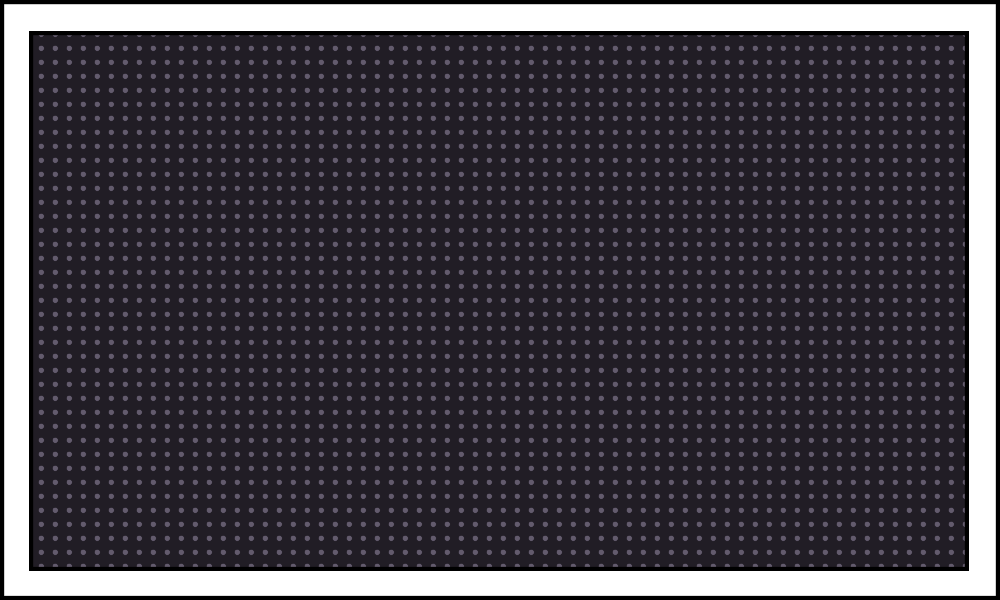
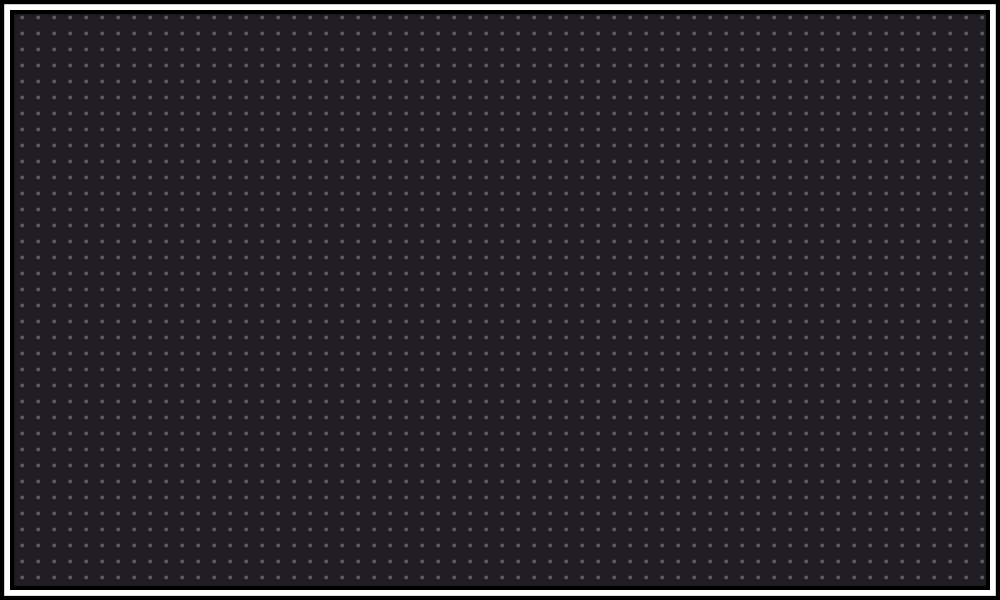
stamina ui things

Changed region(s): [[0.0, 0.0, 0.992, 0.99]]

diff --git a/game/client/css/base.css b/game/client/css/base.css
@@ -181,8 +181,8 @@ body {
 #toggle-sound {
     position: absolute;
     z-index: 51;
-    right: 0;
-    top: 2px;
+    right: 10px;
+    top: 16px;
     width: 30px;
     height: 30px;
     cursor: pointer;
@@ -312,7 +312,7 @@ body {
     height: 100%;
     padding: 40px 50px;
     background-color: #3a68ff;
-    background: url('/client/img/backgroundSM.png');
+    background: url('/client/img/background2.png');
 
     /*font-family: 'Sansita One';*/
     font-family: 'Bangers', cursive;
@@ -527,17 +527,68 @@ body {
 /* PLAY VIEW INFO PANE */
 
 #play-view {
-    padding: 50px 60px;
+    position: relative;
+    padding: 40px 60px 10px 60px;
 }
+
+.play-view-table.ghess-table {
+    margin-top: 40px;
+}
+
+#stamina-title {
+    width: 200px;
+    height: 28px;
+    position: absolute;
+    padding: 5px 26px;
+    color: white;
+    letter-spacing: 4px;
+    background-color: #000000;
+}
+
+.stamina-meter { 
+    left: 120px;
+    width: 700px;
+    height: 26px;  /* Can be anything */
+    position: relative;
+    background: #555;
+    -moz-border-radius: 25px;
+    -webkit-border-radius: 25px;
+    border-radius: 25px;
+    padding: 8px;
+    box-shadow: inset 0 -1px 1px rgba(255,255,255,0.3);
+    z-index: 10;
+}
+
+.stamina-meter > span {
+  display: block;
+  height: 100%;
+  border-top-right-radius: 8px;
+  border-bottom-right-radius: 8px;
+  border-top-left-radius: 20px;
+  border-bottom-left-radius: 20px;
+  background-color: rgb(43,194,83);
+  background-image: linear-gradient(
+    center bottom,
+    rgb(43,194,83) 37%,
+    rgb(84,240,84) 69%
+  );
+  box-shadow: 
+    inset 0 2px 9px  rgba(255,255,255,0.3),
+    inset 0 -2px 6px rgba(0,0,0,0.4);
+  position: relative;
+  overflow: hidden;
+}
+
 .playView-info {
     color: white;
     background-color: rgba(97, 81, 123, 0.38);
     padding: 10px;
     position: relative;
-    width: 280px;
+    width: 284px;
     float: right;
     padding-left: 16px;
     padding-right: 16px;
+    margin-top: 20px;
 }
 
 .h1 {
@@ -576,7 +627,7 @@ body {
     background-size: 100%;
     width: 60px;
     height: 60px;
-    margin: 5px;
+    margin: 5px 10px;
     float: left;
 }
 
@@ -748,6 +799,7 @@ sprite.projectile {
 }
 
 #forfeit-button {
+    margin: 12px;
     margin-left: 60px;
 }
 

diff --git a/game/client/templates/play_view.html b/game/client/templates/play_view.html
@@ -25,9 +25,16 @@
         <div class="message-button main-menu-button">Yes</div>
         <div class="message-button hide-forfeit-confirmation">No</div>
     </div>
+
+    {% set classes="play-view-table" %}
     {% set width = 7 %}
     {% set height = 7 %}
     {% include 'client/templates/table.html' %}
+
+    <div id="stamina-title"> Energy </div>
+    <div class="stamina-meter">
+      <span style="width: 25%"></span>
+    </div>
 
     <div id="info-pane" class="playView-info">
         {% include 'client/templates/char_info_panels.html' %}

diff --git a/game/client/templates/loading_view.html b/game/client/templates/loading_view.html
@@ -3,8 +3,6 @@
     <div id="loading-view-title" class="view-title"> Team Selection </div>
     <div id="selected-stat"></div>
 
-    <!-- User selects unique playerID before entering play view -->
-
     <!-- User selects a team of characters before entering play view -->
     <div id="characters-list">
     	<div id="characters-list-heading">Characters List</div>
